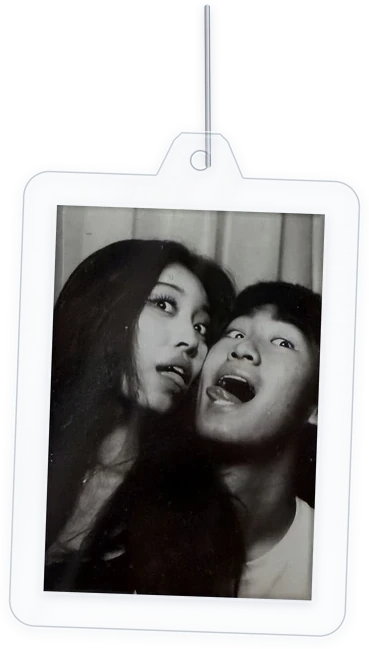
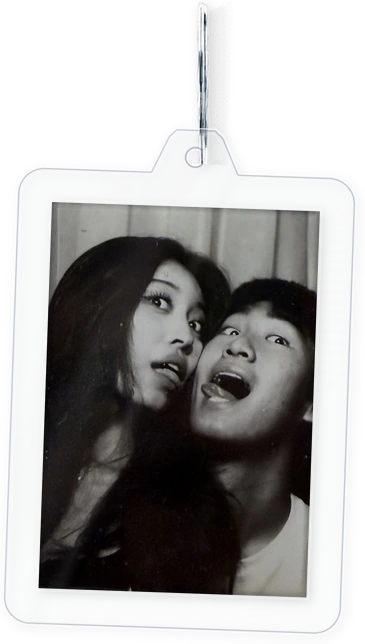
Keychain: reference split rings + hover motion measured from wildyriftian.com
- Suki, photo and Ghost-Spider charms now hang from the reference's own split ring
  (cut from its '03' charm layer, tools/keychain/ref_ring.py), not drawn wires.
- Motion from every-frame transform logs of the reference: idle cosine 3.52 s;
  hovered charm keeps its idle sway + its slot's hover angle (0/+9/+9/-7/-4);
  others swing +/-30 deg with idle rotation on top and idle drift off; spring
  K=95 D=13.5 fitted to the recorded curves; hover strips at 20-80% x, 36.9-99.4% y.

Claude-Session: https://claude.ai/code/session_01NL2CSJLjtWH7qaAE7ZtJhZ

diff --git a/keychain.js b/keychain.js
@@ -16,18 +16,24 @@
   // PLACEHOLDERS: the padlock and charms 02-05 are wildyriftian.com's own art,
   // standing in until Edward's charms are cut out. Swap each file before sharing.
   const LAYERS = [
-    { src: "keychain/05illustration.webp", amp: -3, order: 5 },
-    { src: "keychain/04photoworks.webp", amp: -3, order: 4 },
-    { src: "keychain/02branding.webp", amp: 3, order: 1 },
-    { src: "keychain/06photo.webp", amp: 2, order: 2 },   // the acrylic photo keychain (real)
-    { src: "keychain/03gwen.webp", amp: 2, order: 3 },    // LEGO Ghost-Spider (Spider-Gwen) key chain 854292 (LEGO product photo)
-    { src: "keychain/01suki.webp", amp: 3, order: 0 },    // Suki S2000 Hot Wheels, top-down (real photo of the loose car)
+    { src: "keychain/05illustration.webp", amp: -3, order: 5, hov: 0 },    // reference slot L1 (star)
+    { src: "keychain/04photoworks.webp", amp: -3, order: 4, hov: 9 },     // reference slot L2
+    { src: "keychain/02branding.webp", amp: 3, order: 1, hov: -7 },       // reference slot L4
+    { src: "keychain/06photo.webp", amp: 3, order: 2, hov: -4 },   // the acrylic photo keychain (real); takes reference slot L5 (motion)
+    { src: "keychain/03gwen.webp", amp: 2, order: 3, hov: 9 },    // takes reference slot L3 (editorial); LEGO Ghost-Spider (Spider-Gwen) key chain 854292 (LEGO product photo)
+    { src: "keychain/01suki.webp", amp: 3, order: 0, hov: 0 },    // extra slot (no reference value: plain idle); Suki S2000 Hot Wheels, top-down (real photo of the loose car)
     { src: "keychain/00padlock.webp", top: true },
   ];
-  const BOX = {"00padlock.webp": [42.333, 1.917, 16.0, 36.5], "01suki.webp": [28.75, 34.083, 22.5, 44.167], "02branding.webp": [34.083, 34.25, 23.75, 58.333], "03gwen.webp": [48.833, 33.917, 30.667, 55.0], "04photoworks.webp": [48.167, 33.917, 29.083, 64.583], "05illustration.webp": [47.917, 33.75, 31.833, 37.917], "06photo.webp": [33.667, 33.917, 30.75, 54.083]};
-  const SWING = 30;          // degrees the other charms move aside
-  const PERIOD = 3600, BOB = 4, REF = 461;
-  const K = 170, D = 15;     // spring stiffness / damping: settles in ~0.8 s with a small overshoot
+  const BOX = {"00padlock.webp": [42.333, 1.917, 16.0, 36.5], "01suki.webp": [31.083, 33.917, 20.667, 41.167], "02branding.webp": [34.083, 34.25, 23.75, 58.333], "03gwen.webp": [51.667, 33.833, 30.833, 61.083], "04photoworks.webp": [48.167, 33.917, 29.083, 64.583], "05illustration.webp": [47.917, 33.75, 31.833, 37.917], "06photo.webp": [34.083, 34.167, 30.417, 53.667]};
+  // Motion measured from wildyriftian.com (headless Chrome, 1440x900, every frame):
+  //  idle  - one shared cosine phase p (period 3.52 s): padlock moves down 4px*p; each
+  //          charm moves down 4px*p, sideways -amp*p px and rotates amp*p deg (px at a 720px box)
+  //  hover - the other charms spring to +/-30 deg (idle rotation keeps running on top,
+  //          their idle drift goes to 0); the hovered charm keeps its idle sway and springs
+  //          to its own small angle (hov). Spring fitted to the recorded curves.
+  const SWING = 30;
+  const PERIOD = 3520, BOB = 4, REF = 720;
+  const K = 95, D = 13.5;
 
   const box = document.getElementById("keychain");
   const els = LAYERS.map((l) => {
@@ -44,7 +50,7 @@
     img.src = l.src; img.alt = ""; img.draggable = false; img.decoding = "async";
     wrap.appendChild(img);
     box.appendChild(wrap);
-    return { ...l, el: wrap, a: 0, v: 0 };   // a: spring angle, v: velocity
+    return { ...l, el: wrap, a: 0, v: 0, w: 1, wv: 0 };   // a: spring angle; w: idle-drift weight
   });
   const charms = els.filter((l) => !l.top);
   const N = charms.length;
@@ -89,11 +95,16 @@
     const y = p * BOB * k;
     for (const l of els) {
       if (l.top) { l.el.style.transform = `translateY(${y}px)`; continue; }
-      const target = hovered < 0 || l.order === hovered ? 0 : l.order < hovered ? SWING : -SWING;
-      if (reduce) { l.a = target; l.v = 0; }
-      else { l.v += (K * (target - l.a) - D * l.v) * dt; l.a += l.v * dt; }
+      const mine = hovered < 0 || l.order === hovered;
+      const target = hovered < 0 ? 0 : l.order === hovered ? l.hov : l.order < hovered ? SWING : -SWING;
+      const wt = mine ? 1 : 0;
+      if (reduce) { l.a = target; l.v = 0; l.w = wt; l.wv = 0; }
+      else {
+        l.v += (K * (target - l.a) - D * l.v) * dt; l.a += l.v * dt;
+        l.wv += (K * (wt - l.w) - D * l.wv) * dt; l.w += l.wv * dt;
+      }
       const r = p * l.amp;
-      l.el.style.transform = `translateX(${-r * k}px) translateY(${y}px) rotate(${r + l.a}deg)`;
+      l.el.style.transform = `translateX(${-r * k * l.w}px) translateY(${y * l.w}px) rotate(${r + l.a}deg)`;
     }
     requestAnimationFrame(loop);
   })(t0);

diff --git a/style.css b/style.css
@@ -282,7 +282,7 @@ header { z-index: 8; }
 
 /* hover strips over the keychain (one per charm), after wildyriftian.com desktop */
 #keychain { z-index: 3; }
-.kc-strips { position: absolute; left: 22.7%; top: 37.5%; width: 56.6%; height: 59.5%; display: flex; pointer-events: none; }
+.kc-strips { position: absolute; left: 20%; top: 36.9%; width: 60%; height: 62.5%; display: flex; pointer-events: none; }
 body.birthday .kc-strips { pointer-events: auto; }
 .kc-strips span { flex: 1; touch-action: none; }
 

diff --git a/tools/keychain/measure_reference_motion.py b/tools/keychain/measure_reference_motion.py
@@ -1,0 +1,29 @@
+import asyncio, json
+from playwright.async_api import async_playwright
+JS_SETUP = """() => {
+  const els=[...document.querySelectorAll('img')].filter(i=>/1200&height=1200/.test(i.src)).slice(0,6).map(i=>i.parentElement.parentElement);
+  window.__els=els; window.__log=[]; window.__t0=performance.now(); window.__last=els.map(()=> '');
+  const tick=()=>{els.forEach((e,i)=>{const m=getComputedStyle(e).transform; if(m!==window.__last[i]){window.__last[i]=m; window.__log.push([Math.round(performance.now()-window.__t0),i,m, e.style.transform])}}); requestAnimationFrame(tick)};
+  requestAnimationFrame(tick);
+  return els.map(e=>[e.className, e.getAttribute('style'), JSON.stringify(e.getBoundingClientRect())]);
+}"""
+async def main():
+    async with async_playwright() as p:
+        b=await p.chromium.launch(); pg=await b.new_page(viewport={'width':1440,'height':900})
+        await pg.goto('https://www.wildyriftian.com/',wait_until='networkidle',timeout=60000); await pg.wait_for_timeout(4000)
+        info=await pg.evaluate(JS_SETUP); print(json.dumps(info,indent=0)[:3000])
+        await pg.mouse.move(50,850); await pg.wait_for_timeout(4000)
+        idle=await pg.evaluate("()=>{const l=window.__log; window.__log=[]; window.__t0=performance.now(); return l}")
+        json.dump(idle,open('/tmp/wr_idle.json','w'))
+        # hover zones: find any elements on top of the keychain area that react to hover
+        hz=await pg.evaluate("""()=>{const out=[];for(let x=300;x<=1140;x+=20){const e=document.elementFromPoint(x,600);out.push([x,e.tagName,(e.className+'').slice(0,50),JSON.stringify(e.getBoundingClientRect())])}return out}""")
+        json.dump(hz,open('/tmp/wr_hz.json','w'))
+        res={}
+        for x in range(380,1080,40):
+            await pg.mouse.move(50,850); await pg.wait_for_timeout(1500)
+            await pg.evaluate("()=>{window.__log=[]; window.__t0=performance.now()}")
+            await pg.mouse.move(x,600); await pg.wait_for_timeout(1600)
+            res[x]=await pg.evaluate("()=>window.__log")
+        json.dump(res,open('/tmp/wr_hover.json','w'))
+        await b.close()
+asyncio.run(main())

diff --git a/tools/keychain/render_acrylic.py b/tools/keychain/render_acrylic.py
@@ -106,26 +106,10 @@ t = np.deg2rad(ROT)
 hxr = cxr + vx * np.cos(t) + vy * np.sin(t); hyr = cyr - vx * np.sin(t) + vy * np.cos(t)
 canvas.alpha_composite(rot, (int(HOLE_AT[0] * SS - hxr), int(HOLE_AT[1] * SS - hyr)))
 
-# ---- the wire link from the ring into the hole (drawn like the reference wires) ----
-wire = np.zeros((CAN, CAN, 4))
-x1, y1 = RING_PT[0] * SS, RING_PT[1] * SS
-x2, y2 = HOLE_AT[0] * SS, (HOLE_AT[1] + 4) * SS
-W2 = 3.0 * SS                       # half-width
-lo_x, hi_x = int(min(x1, x2) - 20 * SS), int(max(x1, x2) + 20 * SS)
-lo_y, hi_y = int(y1 - 20 * SS), int(y2 + 20 * SS)
-gy2, gx2 = np.mgrid[lo_y:hi_y, lo_x:hi_x]
-dx, dy = x2 - x1, y2 - y1; L2 = dx * dx + dy * dy
-tt = np.clip(((gx2 - x1) * dx + (gy2 - y1) * dy) / L2, 0, 1)
-qx, qy = x1 + tt * dx, y1 + tt * dy
-nx, ny = -dy / np.sqrt(L2), dx / np.sqrt(L2)
-off = ((gx2 - qx) * nx + (gy2 - qy) * ny) / W2          # -1..1 across the wire
-r = np.sqrt((gx2 - qx) ** 2 + (gy2 - qy) ** 2) / W2
-alpha = np.clip((1 - r) * W2 / SS * 1.2, 0, 1)
-shade = 200 - 120 * np.abs(off) ** 1.5 + 55 * np.exp(-((off + 0.35) / 0.18) ** 2)   # metal: dark edges, bright streak
-col = np.stack([shade * 0.98, shade, shade * 1.03], -1).clip(0, 255)
-wire[lo_y:hi_y, lo_x:hi_x, :3] = col
-wire[lo_y:hi_y, lo_x:hi_x, 3] = alpha * 255
-wire_im = Image.fromarray(wire.astype(np.uint8), 'RGBA')
+# ---- the reference's own split ring, from the padlock ring into the hole ----
+import sys, os; sys.path.insert(0, os.path.dirname(os.path.abspath(__file__)))
+from ref_ring import ring_layer
+wire_im = ring_layer(RING_PT, (HOLE_AT[0], HOLE_AT[1] + HOLE_R * 0.35), SS, CAN)
 # wire goes behind the slab but shows through the hole
 out = Image.new('RGBA', (CAN, CAN), (0, 0, 0, 0))
 out.alpha_composite(wire_im); out.alpha_composite(canvas)

diff --git a/tools/keychain/render_gwen.py b/tools/keychain/render_gwen.py
@@ -9,7 +9,6 @@ sys.path.insert(0, '.')
 
 SCALE = float(sys.argv[1]) if len(sys.argv) > 1 else 0.5
 ROT = float(sys.argv[2]) if len(sys.argv) > 2 else 0     # + swings her to the right (counter-clockwise image rotation)
-RING_PT = (604, 414)
 SS = 2; CAN = 1200 * SS
 
 src = Image.open('ghost-spider-854292.png').convert('RGBA')
@@ -32,14 +31,17 @@ def metal(cx, cy, R, half=2.4):
     out[gy, gx, :3] = np.stack([sh * .98, sh, sh * 1.03], -1).clip(0, 255); out[gy, gx, 3] = al * 255
     return Image.fromarray(out.astype(np.uint8))
 
-R = 9 * SS
-ring_c = (RING_PT[0] * SS, RING_PT[1] * SS + R * 0.9)                    # jump ring threaded on the padlock ring
+# the reference's own split ring (see ref_ring.py) from the padlock ring, through
+# the top link of her real LEGO chain
+from ref_ring import ring_layer
+RING_TOP = (628, 412)
+LINK = (640, 500)                                                        # top of her chain (1200 px)
 out = Image.new('RGBA', (CAN, CAN), (0, 0, 0, 0))
 px, py = chain_x * k, 0
 pad = Image.new('RGBA', (body.width * 3, body.height * 2 + body.width * 2), (0, 0, 0, 0)); ox, oy = body.width, body.width
 pad.alpha_composite(body, (ox, oy))
 pad = pad.rotate(ROT, resample=Image.BICUBIC, center=(ox + px, oy + py))
-out.alpha_composite(pad, (int(ring_c[0] - ox - px), int(ring_c[1] + R - 3 * SS - oy)))
-out.alpha_composite(metal(*ring_c, R))
+out.alpha_composite(pad, (int(LINK[0] * SS - ox - px), int(LINK[1] * SS - oy)))
+out.alpha_composite(ring_layer(RING_TOP, (LINK[0], LINK[1] + 8), SS, CAN))   # ring passes through the top link, in front
 out.resize((1200, 1200), Image.LANCZOS).save('/home/claude/gwen/03gwen.png')
 print('ok', 'chain starts at source row', top)

diff --git a/tools/keychain/ref_ring.py b/tools/keychain/ref_ring.py
@@ -1,0 +1,29 @@
+"""The split ring from wildyriftian.com's own '03' charm layer (framerusercontent
+fsrZLkxLD4fRbDoXCcY0l7KeyCY.png, rows 408-522, cols 592-635), seen edge-on.
+ring_layer() stretches it between two points on the shared 1200 square (only its
+length and angle change; its width and shading stay exactly as cut)."""
+import os
+import numpy as np
+from PIL import Image
+
+SPRITE = Image.open(os.path.join(os.path.dirname(__file__), 'ref_split_ring.png')).convert('RGBA')
+
+def _axis():
+    a = np.asarray(SPRITE)[..., 3].astype(float)
+    rows = [y for y in range(a.shape[0]) if (a[y] > 150).any()]
+    def c(y):
+        w = np.where(a[y] > 150, a[y], 0); return (w * np.arange(a.shape[1])).sum() / w.sum()
+    top, bot = rows[0], rows[-1]
+    return np.array([c(top), top]), np.array([c(bot), bot])
+
+ST, SB = _axis()
+
+def ring_layer(top, bottom, SS=2, CAN=2400):
+    """RGBA canvas (CAN x CAN) with the ring from `top` to `bottom` (1200-space px)."""
+    T = np.array(top, float) * SS; B = np.array(bottom, float) * SS
+    d = B - T; L = np.linalg.norm(d); u = d / L; n = np.array([-u[1], u[0]])
+    sd = SB - ST; Ls = np.linalg.norm(sd); su = sd / Ls; sn = np.array([-su[1], su[0]])
+    # sprite = M @ (P - T) + ST
+    M = (Ls / L) * np.outer(su, u) + (1 / SS) * np.outer(sn, n)
+    off = ST - M @ T
+    return SPRITE.transform((CAN, CAN), Image.AFFINE, (M[0, 0], M[0, 1], off[0], M[1, 0], M[1, 1], off[1]), resample=Image.BICUBIC)

diff --git a/tools/keychain/render_suki.py b/tools/keychain/render_suki.py
@@ -8,7 +8,6 @@ import numpy as np
 
 PIV_AT = (int(sys.argv[1]), int(sys.argv[2])) if len(sys.argv) > 2 else (520, 560)
 ROT = float(sys.argv[3]) if len(sys.argv) > 3 else 82      # 90 = plumb; lower leans outward (left)
-RING_PT = (604, 414)
 SS = 2; CAN = 1200 * SS; S = (float(sys.argv[4]) if len(sys.argv) > 4 else 0.54) * SS
 
 car = Image.open('car_local.png').convert('RGBA')
@@ -45,12 +44,14 @@ def metal_ring(cx, cy, R, half=2.4):
     out[gy, gx, :3] = np.stack([sh * .98, sh, sh * 1.03], -1).clip(0, 255); out[gy, gx, 3] = a * 255
     return Image.fromarray(out.astype(np.uint8))
 
-R = 10 * SS
-ringc = (PIV_AT[0] * SS, PIV_AT[1] * SS - R * 0.6)
+# the reference's own split ring (see ref_ring.py) from the padlock ring to the tail,
+# tucked behind the car so it disappears into the tail like a screw eye
+sys.path.insert(0, '/home/claude/zoie/tools/keychain')
+from ref_ring import ring_layer
+RING_TOP = (594, 412)
 out = Image.new('RGBA', (CAN, CAN), (0, 0, 0, 0))
-out.alpha_composite(metal_line(RING_PT[0] * SS, RING_PT[1] * SS, ringc[0], ringc[1] - R))
+out.alpha_composite(ring_layer(RING_TOP, (PIV_AT[0] + 4, PIV_AT[1] + 6), SS, CAN))
 out.alpha_composite(body)
-out.alpha_composite(metal_ring(*ringc, R))
 out.resize((1200, 1200), Image.LANCZOS).save('01suki.png')
 
 order = ['05illustration', '04photoworks', '03editorial', '02branding', '06photo', 'SUKI', '00padlock']
